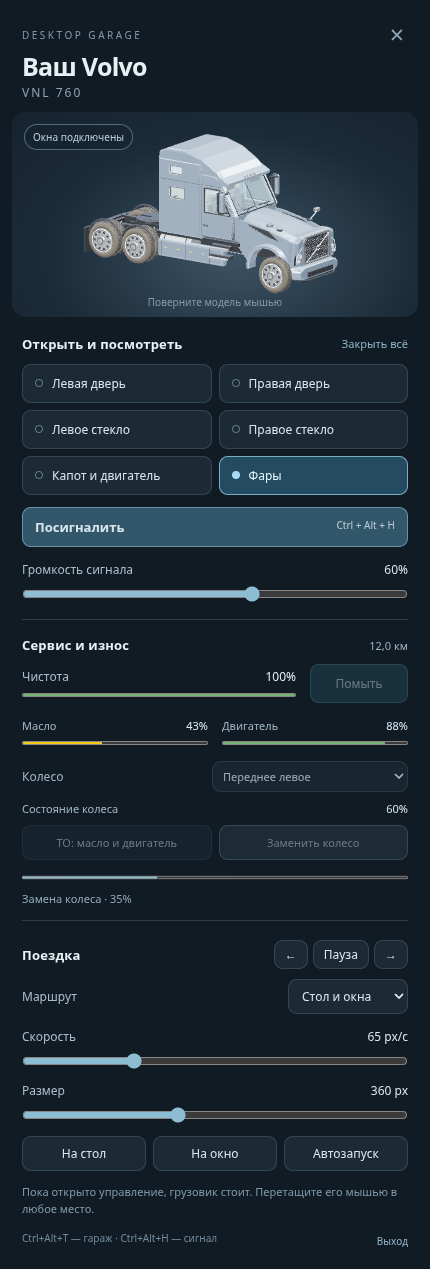
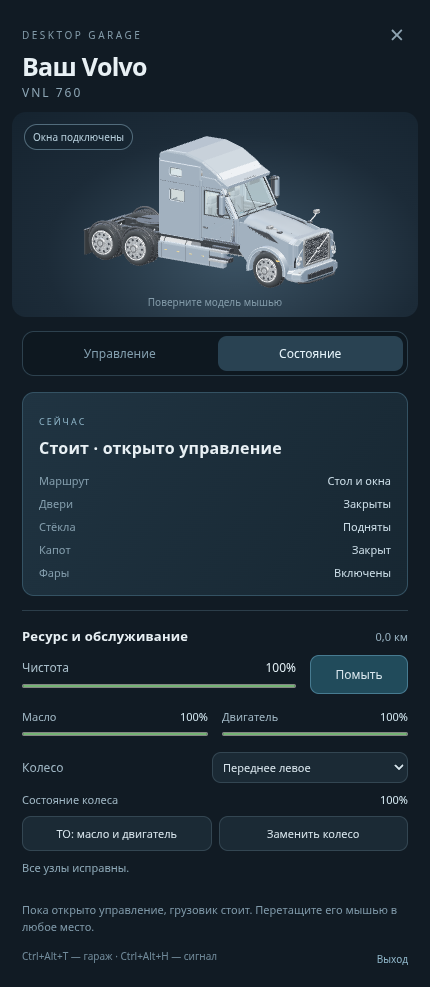
Add control-panel state tab and stationary hover burnout with fading tire smoke

diff --git a/desktop/app/panel.html b/desktop/app/panel.html
@@ -1,24 +1,25 @@
 <!doctype html><html lang="ru"><head><meta charset="utf-8"><meta name="viewport" content="width=device-width,initial-scale=1"><meta http-equiv="Content-Security-Policy" content="default-src 'self'; script-src 'self'; style-src 'self'; img-src 'self' data: blob:; connect-src 'self'; media-src 'self';"><title>Ваш Volvo</title><link rel="stylesheet" href="panel.css"></head><body>
 <header><div><small>DESKTOP GARAGE</small><h1>Ваш Volvo<span>VNL 760</span></h1></div><button class="close" data-command="panel-close" aria-label="Закрыть управление">×</button></header>
 <section class="preview"><canvas aria-label="Предпросмотр модели. Поворачивайте мышью, приближайте колёсиком."></canvas><span class="badge" id="status">Подключение…</span><span class="orbit-hint">Поверните модель мышью</span></section>
-<main>
+<nav class="panel-tabs" role="tablist" aria-label="Раздел управления"><button id="tab-controls" role="tab" aria-selected="true" aria-controls="controls-panel" data-tab="controls">Управление</button><button id="tab-state" role="tab" aria-selected="false" aria-controls="state-panel" tabindex="-1" data-tab="state">Состояние</button></nav>
+<main><section id="controls-panel" role="tabpanel" aria-labelledby="tab-controls">
 <div class="section-title"><h2>Открыть и посмотреть</h2><button class="text" data-command="close-all">Закрыть всё</button></div>
 <div class="toggles"><button data-toggle="doorLeft" aria-pressed="false">Левая дверь</button><button data-toggle="doorRight" aria-pressed="false">Правая дверь</button><button data-toggle="windowLeft" aria-pressed="false">Левое стекло</button><button data-toggle="windowRight" aria-pressed="false">Правое стекло</button><button data-toggle="hood" aria-pressed="false">Капот и двигатель</button><button data-toggle="lights" aria-pressed="true">Фары</button></div>
 <button class="horn-button" data-command="horn">Посигналить <span>Ctrl + Alt + H</span></button>
 <label class="range-label">Громкость сигнала<span id="volume-value">60%</span><input aria-label="Громкость сигнала" name="hornVolume" type="range" min="0" max="100" value="60"></label>
-<section class="service-section" aria-label="Сервис и износ">
-<div class="section-title"><h2>Сервис и износ</h2><span id="odometer">0,0 км</span></div>
+
+<div class="section-title ride-title"><h2>Поездка</h2><div class="directions"><button data-direction="-1" aria-label="Ехать влево">←</button><button data-toggle="paused" aria-pressed="false" id="pause-label">Пауза</button><button data-direction="1" aria-label="Ехать вправо">→</button></div></div>
+<label class="row">Маршрут<select name="mode"><option value="roam">Стол и окна</option><option value="desktop">Рабочий стол</option><option value="windows">По окнам</option></select></label>
+<label class="range-label">Скорость<span id="speed-value">65 px/с</span><input aria-label="Скорость" name="speed" type="range" min="20" max="180" value="65"></label>
+<label class="range-label">Размер<span id="size-value">360 px</span><input aria-label="Размер грузовика" name="size" type="range" min="240" max="540" step="10" value="360"></label>
+<div class="bottom-actions"><button data-command="desktop">На стол</button><button data-command="window">На окно</button><button data-toggle="autostart" aria-pressed="false">Автозапуск</button></div>
+
+</section><section id="state-panel" role="tabpanel" aria-labelledby="tab-state" hidden><section class="activity-card" aria-label="Текущее состояние"><span class="activity-eyebrow">СЕЙЧАС</span><h2 id="activity-label">Ожидает</h2><dl class="vehicle-facts"><dt>Маршрут</dt><dd id="fact-route">Стол и окна</dd><dt>Двери</dt><dd id="fact-doors">Закрыты</dd><dt>Стёкла</dt><dd id="fact-windows">Подняты</dd><dt>Капот</dt><dd id="fact-hood">Закрыт</dd><dt>Фары</dt><dd id="fact-lights">Включены</dd></dl></section><section class="service-section" aria-label="Сервис и износ">
+<div class="section-title"><h2>Ресурс и обслуживание</h2><span id="odometer">0,0 км</span></div>
 <div class="cleanliness-row"><label>Чистота <strong id="clean-value">100%</strong><meter id="clean-meter" min="0" max="100" low="20" high="50" optimum="100" value="100"></meter></label><button data-command="wash">Помыть</button></div>
 <div class="health-grid"><label>Масло <strong id="oil-value">100%</strong><meter id="oil-meter" min="0" max="100" low="20" high="50" optimum="100" value="100"></meter></label><label>Двигатель <strong id="engine-value">100%</strong><meter id="engine-meter" min="0" max="100" low="20" high="50" optimum="100" value="100"></meter></label></div>
 <label class="wheel-select">Колесо<select name="wheel" id="wheel-select" aria-label="Колесо для замены"></select></label>
 <div class="tire-health">Состояние колеса <strong id="tire-value">100%</strong></div>
 <div class="service-actions"><button data-command="service">ТО: масло и двигатель</button><button id="replace-wheel">Заменить колесо</button></div>
 <progress id="service-progress" max="1" value="0" hidden></progress><p id="service-status" role="status">Все узлы исправны.</p>
-</section>
-<div class="section-title ride-title"><h2>Поездка</h2><div class="directions"><button data-direction="-1" aria-label="Ехать влево">←</button><button data-toggle="paused" aria-pressed="false" id="pause-label">Пауза</button><button data-direction="1" aria-label="Ехать вправо">→</button></div></div>
-<label class="row">Маршрут<select name="mode"><option value="roam">Стол и окна</option><option value="desktop">Рабочий стол</option><option value="windows">По окнам</option></select></label>
-<label class="range-label">Скорость<span id="speed-value">65 px/с</span><input aria-label="Скорость" name="speed" type="range" min="20" max="180" value="65"></label>
-<label class="range-label">Размер<span id="size-value">360 px</span><input aria-label="Размер грузовика" name="size" type="range" min="240" max="540" step="10" value="360"></label>
-<div class="bottom-actions"><button data-command="desktop">На стол</button><button data-command="window">На окно</button><button data-toggle="autostart" aria-pressed="false">Автозапуск</button></div>
-<p id="notice" role="status">Пока открыто управление, грузовик стоит. Перетащите его мышью в любое место.</p>
-</main><footer><span>Ctrl+Alt+T — гараж · Ctrl+Alt+H — сигнал</span><button class="text" data-command="quit">Выход</button></footer><script type="module" src="runtime/panel.js"></script></body></html>
+</section></section><p id="notice" role="status">Пока открыто управление, грузовик стоит. Перетащите его мышью в любое место.</p></main><footer><span>Ctrl+Alt+T — гараж · Ctrl+Alt+H — сигнал</span><button class="text" data-command="quit">Выход</button></footer><script type="module" src="runtime/panel.js"></script></body></html>

diff --git a/desktop/app/panel.css b/desktop/app/panel.css
@@ -3,3 +3,5 @@
 .horn-button{width:100%;margin-top:12px;background:#33576a;border-color:#6892a8;font-size:13px;font-weight:600;display:flex;justify-content:space-between}.horn-button span{font-size:10px;font-weight:400;opacity:.8}.service-section{border-top:1px solid #2c3e4a;border-bottom:1px solid #2c3e4a;margin-top:18px;padding:16px 0 9px}#odometer{font-size:11px;color:#9ab4c3;font-variant-numeric:tabular-nums}.health-grid{display:grid;grid-template-columns:1fr 1fr;gap:14px;font-size:11px;color:#9fb6c3}.health-grid label{display:grid;grid-template-columns:1fr auto;gap:6px}.health-grid strong,.tire-health strong{font-weight:500;color:#d9edf6}.health-grid meter{width:100%;height:8px;grid-column:1/-1}.wheel-select{display:flex;justify-content:space-between;align-items:center;gap:8px;font-size:12px;color:#9fb6c3;margin-top:14px}.wheel-select select{max-width:270px;padding:6px;font-size:11px}.tire-health{font-size:11px;color:#9fb6c3;margin:9px 0;display:flex;justify-content:space-between}.service-actions{display:flex;gap:7px}.service-actions button{flex:1;font-size:11px;padding:9px 6px}button:disabled{opacity:.45;cursor:wait}#service-progress{width:100%;height:7px;accent-color:#8dbdd3;margin-top:12px}#service-status{font-size:11px;color:#8faab9;line-height:1.5;min-height:17px;margin:9px 0 3px}#service-status.urgent{color:#efb081}
 
 .cleanliness-row{display:flex;align-items:center;gap:14px;margin:6px 0 15px}.cleanliness-row label{flex:1;display:grid;grid-template-columns:1fr auto;gap:6px;font-size:12px;color:#a9beca}.cleanliness-row strong{color:#e2eff5;font-weight:500}.cleanliness-row meter{width:100%;height:8px;grid-column:1/-1}.cleanliness-row button{min-width:98px;background:#214b5b;border-color:#477b91}
+
+.panel-tabs{display:grid;grid-template-columns:1fr 1fr;gap:5px;margin:14px 22px 0;padding:4px;border:1px solid #2d414e;border-radius:12px;background:#0e1820}.panel-tabs button{border:0;background:none;color:#829eae;padding:9px;font-size:12px}.panel-tabs button[aria-selected=true]{background:#294252;color:#e6f4fb}.panel-tabs button:focus-visible{outline-offset:0}[role=tabpanel][hidden]{display:none}.activity-card{padding:15px 16px;background:linear-gradient(125deg,#203442,#172732);border:1px solid #345263;border-radius:12px}.activity-eyebrow{font-size:9px;letter-spacing:2px;color:#8eb5c8}.activity-card h2{font-size:16px;margin:7px 0 14px;font-weight:600}.vehicle-facts{display:grid;grid-template-columns:1fr auto;gap:8px;margin:0;font-size:11px}.vehicle-facts dt{color:#849ead}.vehicle-facts dd{margin:0;color:#cddfe9;text-align:right}#state-panel .service-section{margin-top:14px;border-bottom:0}#activity-label[data-code=burnout]{color:#b8e0f2}

diff --git a/desktop/README.md b/desktop/README.md
@@ -6,9 +6,17 @@
 
 ## Готовое приложение
 
-Откройте вкладку **Actions** в репозитории и последний успешный запуск **Build Volvo Desktop for Windows**. В разделе **Artifacts** скачайте `Volvo-Desktop-Windows-x64`, распакуйте архив и запустите файл `Volvo-Desktop-0.2.0-x64.exe`. Вход в GitHub нужен для скачивания артефакта. Node.js и Blender для готового EXE не требуются.
+Откройте вкладку **Actions** в репозитории и последний успешный запуск **Build Volvo Desktop for Windows**. В разделе **Artifacts** скачайте `Volvo-Desktop-Windows-x64`, распакуйте архив и запустите файл `Volvo-Desktop-0.3.0-x64.exe`. Вход в GitHub нужен для скачивания артефакта. Node.js и Blender для готового EXE не требуются.
 
 Альтернатива: распаковать вложенный ZIP целиком и запустить `Volvo Desktop.exe` внутри него. Не переносите этот EXE отдельно от остальных файлов ZIP. Готовая сборка не подписана цифровой подписью.
+
+## Новое в 0.3.0
+
+В панели появились отдельные вкладки **Управление** и **Состояние**. «Состояние» показывает текущее действие, маршрут, двери, стёкла, капот, фары, пробег, чистоту, масло, двигатель и выбранное колесо. Здесь же находятся мойка, ТО и замена колёс. Открыть этот раздел можно напрямую пунктом «Состояние грузовика» в контекстном меню.
+
+При наведении на грузовик на рабочем столе он остаётся на месте, вращает задние ведущие колёса и выпускает небольшой дымок из-под шин. Передние колёса не буксуют. После ухода мыши дым рассеивается и поездка продолжается. Даже переезд между границами на время наведения замирает. При перетаскивании, открытом управлении, паузе, ремонте, критическом износе или открытых дверях/капоте пробуксовка не включается. Пробег от неё не растёт.
+
+![Пробуксовка на рабочем столе](burnout-preview.png)
 
 ## Новое в 0.2.0
 
@@ -72,4 +80,4 @@ npm test
 blender -b --python scripts/prepare-model.py
 ```
 
-Проверка пользовательских мониторов, конкретного масштабирования DPI, политики PowerShell и поведения поверх разных приложений требует запуска на целевом Windows. На Linux доступны тесты логики и 3D-интерфейса; нативные границы окон включаются только на Windows. Версия приложения — 0.2.0.
+Проверка пользовательских мониторов, конкретного масштабирования DPI, политики PowerShell и поведения поверх разных приложений требует запуска на целевом Windows. На Linux доступны тесты логики и 3D-интерфейса; нативные границы окон включаются только на Windows. Версия приложения — 0.3.0.

diff --git a/README.md b/README.md
@@ -46,4 +46,4 @@ blender -b -t 8 --python scripts/render_views.py
 
 ## Грузовик на рабочем столе Windows
 
-В [desktop/](desktop/) добавлено отдельное приложение для Windows 10/11: езда по рабочему столу и рамкам окон, вращающиеся колёса, открывающиеся двери, стёкла и капот, гараж с управлением. В версии 0.2.0 добавлены вид сбоку с разворотом на рабочем столе, износ, ТО, замена колёс звуковой сигнал по ЛКМ, загрязнение по таймеру и мойка. Инструкция запуска и получения EXE — в [desktop/README.md](desktop/README.md).
+В [desktop/](desktop/) добавлено отдельное приложение для Windows 10/11: езда по рабочему столу и рамкам окон, вращающиеся колёса, открывающиеся двери, стёкла и капот, гараж с управлением. В версии 0.2.0 добавлены вид сбоку с разворотом на рабочем столе, износ, ТО, замена колёс звуковой сигнал по ЛКМ, загрязнение по таймеру и мойка. В версии 0.3.0 состояние собрано в отдельной вкладке, а при наведении включается пробуксовка с дымком без перемещения. Инструкция запуска и получения EXE — в [desktop/README.md](desktop/README.md).
